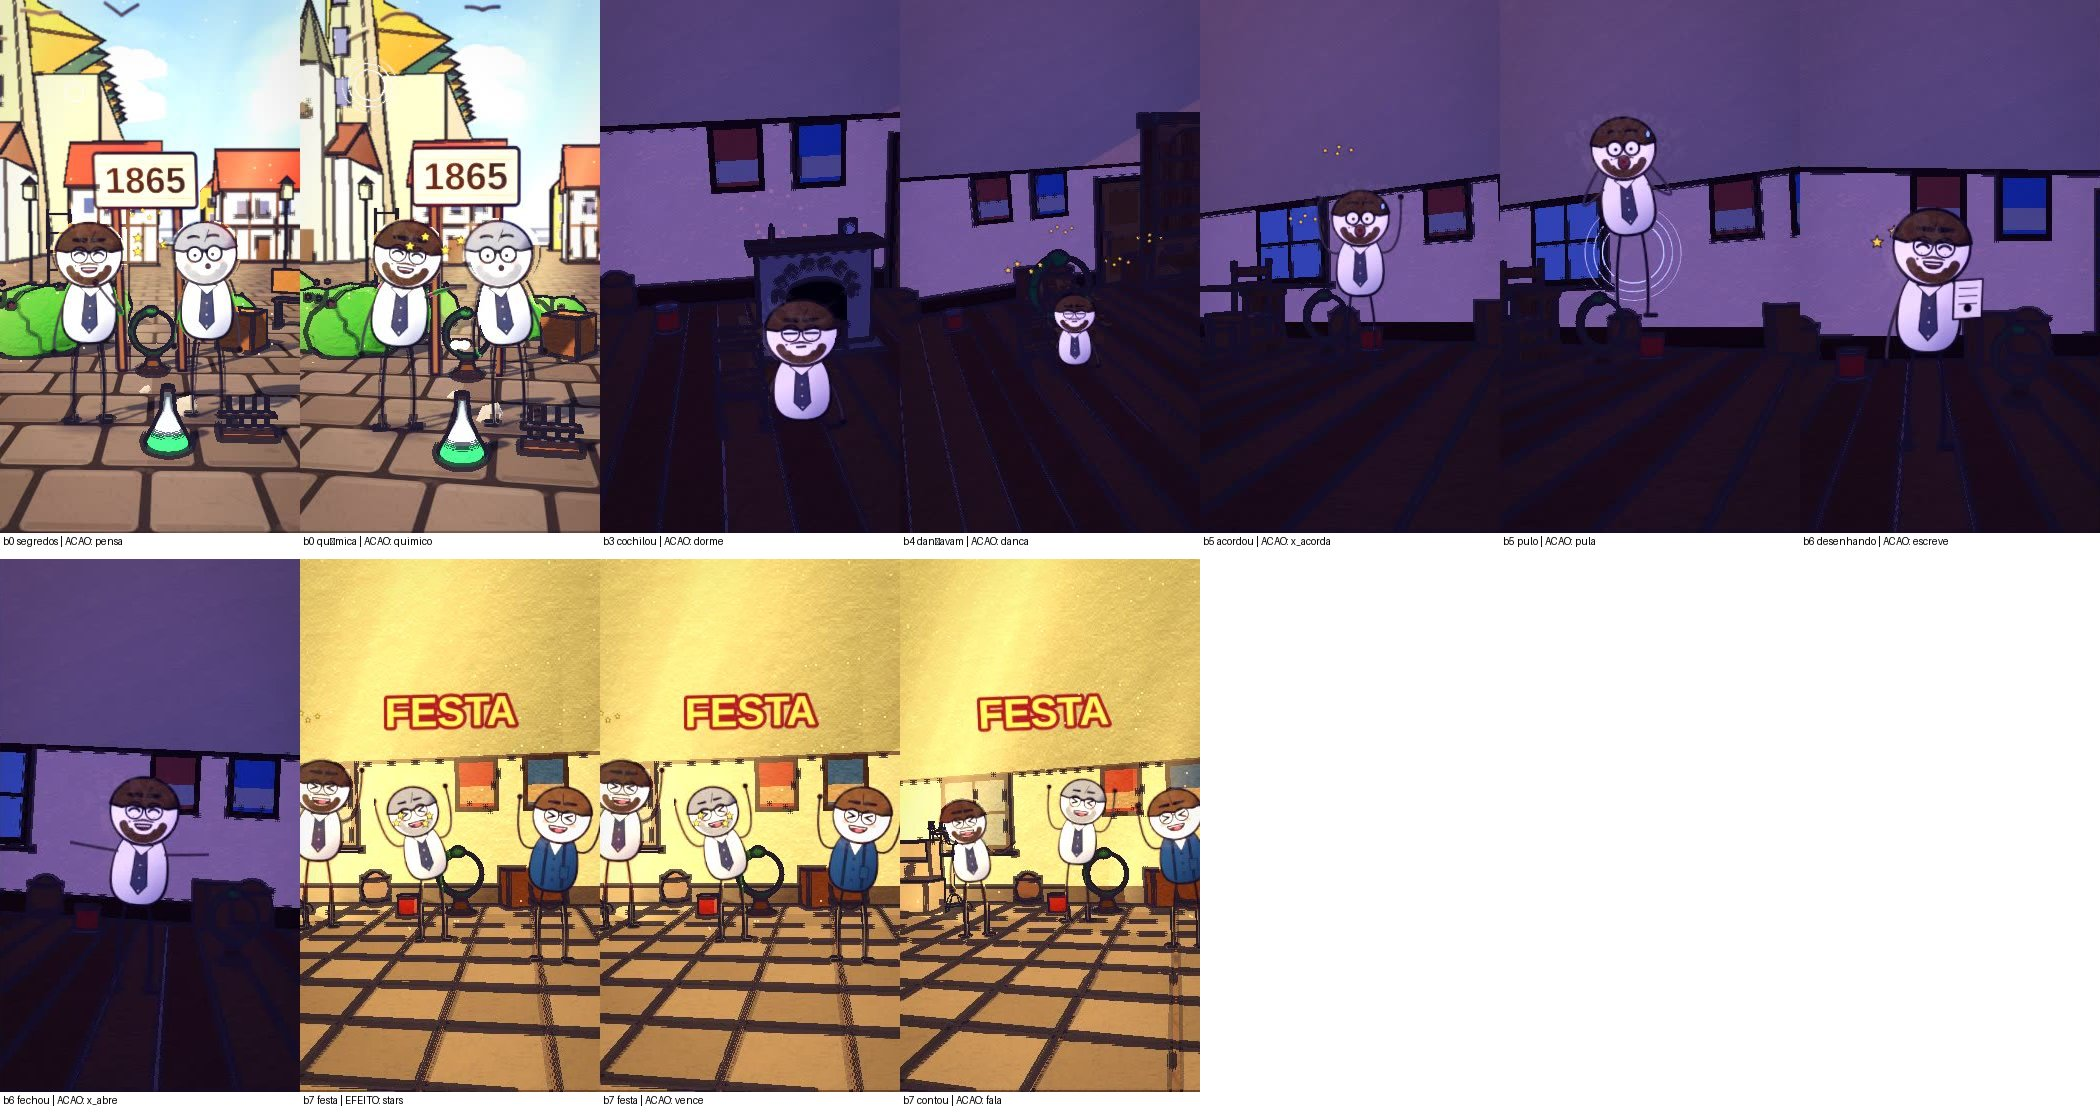
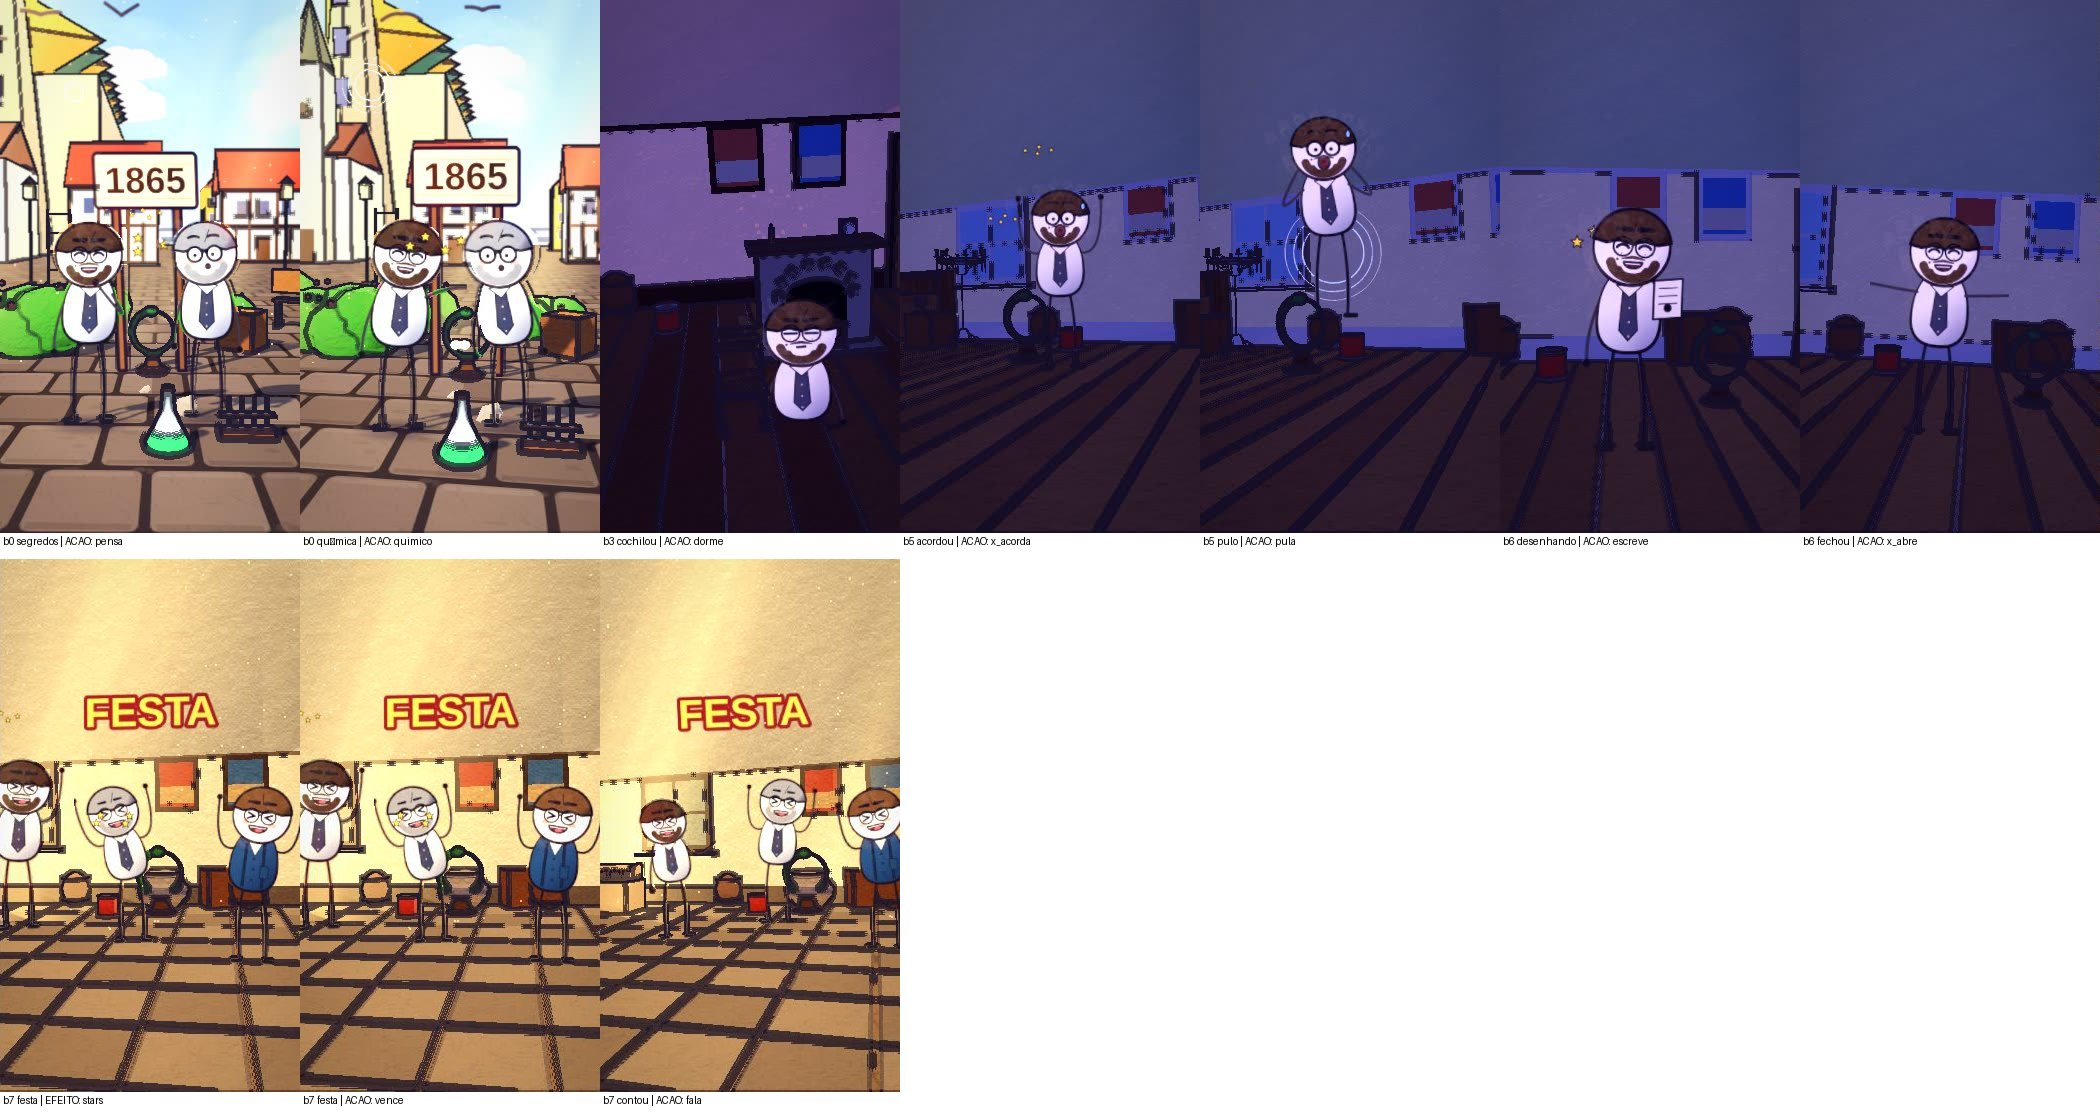
Kekule: storyboard aprovado
Claude-Session: https://claude.ai/code/session_01HE8Dy3UcXXZZMLa7uzjNJD

diff --git a/ferramenta-shorts/web/story.js b/ferramenta-shorts/web/story.js
@@ -49,6 +49,7 @@ const SPEC = {
 };
 
 // FOLHA3 a769cfd9f9d3 30 acoes=29 faltando=0
+SPEC.fit = {"b1":1.254,"b1_1":1.12,"b3":1.12,"b3~1":1.572,"b3~2":1.254,"b8":1.254,"b8_1":1.12,"b9":1.254};
 // ===== STORY RUNTIME (generic): turns a declarative SPEC (stories/<id>.spec.js, concatenated before this file) into the story.js interface the engine expects =====
 import { camFromKeys, clamp, lerp, ramp, q, blinkAt, idle, M } from './motion.js';
 export const FPS = 30, TOTAL = SPEC.total, DECK = 6;

diff --git a/ferramenta-shorts/stories/kekule1865/fit.js b/ferramenta-shorts/stories/kekule1865/fit.js
@@ -1,0 +1,1 @@
+SPEC.fit = {"b1":1.254,"b1_1":1.12,"b3":1.12,"b3~1":1.572,"b3~2":1.254,"b8":1.254,"b8_1":1.12,"b9":1.254};

diff --git a/ferramenta-shorts/stories/kekule1865/revisao_storyboard.md b/ferramenta-shorts/stories/kekule1865/revisao_storyboard.md
@@ -1,12 +1,12 @@
-b0: OK - cena confere com a frase: Um dos maiores segredos da química foi resolvido num cochilo, e com a ajuda
-b1: OK - cena confere com a frase: Era mil oitocentos e sessenta e cinco, na cidade de Gante, na Bélgica.
-b2: OK - cena confere com a frase: O professor August Kekulé tinha um problema: o benzeno, um líquido com seis átomos
-b3: OK - cena confere com a frase: Os químicos desenhavam correntes retas, e nada fechava a conta. Era um quebra-cabeça de
-b4: OK - cena confere com a frase: Numa noite fria, ele virou a cadeira para a lareira, e cochilou.
-b5: OK - cena confere com a frase: No sonho, os átomos dançavam como cobras. Até que uma delas mordeu o próprio
-b6: OK - cena confere com a frase: Kekulé acordou num pulo, como se tivesse levado um raio. O benzeno não era
-b7: OK - cena confere com a frase: Passou o resto da noite desenhando o anel de seis carbonos. E a conta
-b8: OK - cena confere com a frase: Os colegas ficaram de boca aberta. O anel explicava dezenas de substâncias de uma
-b9: OK - cena confere com a frase: Vinte e cinco anos depois, numa festa em Berlim em honra ao anel, ele
-b10: OK - cena confere com a frase: Até hoje há quem duvide da história. Mas o anel do benzeno virou base
-b11: OK - cena confere com a frase: E ele deixou um conselho: aprendam a sonhar. Mas confiram tudo acordados.
+b0: OK - um dos maiores segredos da quimica resolvido num cochilo com a ajuda de uma cobra: Kekule e colega na rua de Gante com o anel da cobra e frascos, placa 1865
+b1: OK - 1865, cidade de Gante na Belgica: mapa da Belgica e a rua com moradores
+b2: OK - o benzeno com seis carbonos que ninguem sabia arrumar: Kekule e colega no gabinete, placa 6 CARBONOS
+b3: OK - numa noite fria virou a cadeira para a lareira e cochilou: Kekule na sala escura com a lareira acesa
+b4: CORRIGIDO - sonho escuro com a cobra pequena num canto -> os atomos dancavam como cobras e uma mordeu o proprio rabo: o anel da cobra girando em destaque com ATOMOS > COBRA > ANEL
+b5: OK - Kekule acordou num pulo, o benzeno era um anel: Kekule espantado na sala com o anel ao lado
+b6: OK - passou a noite desenhando o anel de seis carbonos: Kekule com o papel na sala
+b7: OK - vinte e cinco anos depois numa festa em Berlim contou o sonho: colegas comemorando com o anel, placa FESTA
+b8: OK - ha quem duvide, mas o anel virou base de remedios, tintas e plasticos: multidao na praca
+b9: OK - aprendam a sonhar, mas confiram tudo acordados: Kekule com o anel, placa SONHE
+pesquisa: o quadro de referencias mostra August Kekule de terno e barba em 1865, o desenho do anel hexagonal do benzeno, a cobra Ouroboros mordendo o rabo e a cidade de Gante; comparei roupas, cidade e o simbolo do anel
+defeitos procurados: cenario de Gante do seculo XIX sem predio moderno; epoca 1865 sem objeto fora; tamanho certo do anel e frascos; ninguem cortado; multidao sem clone; legenda livre; acao de cada frase visivel (cochilo, sonho, acordar, desenhar, festa); objeto heroi anel da cobra no comeco, no sonho e no fim

diff --git a/ferramenta-shorts/stories/kekule1865/cronograma.md b/ferramenta-shorts/stories/kekule1865/cronograma.md
@@ -1,6 +1,6 @@
 # CRONOGRAMA - Curiosidade e Ciência EP 14 - O Químico que Sonhou com uma Cobra
 
-Gerado em 24/11 10:10 | 11 cenas | metricas: acoes_encenadas 100%, acoes_chave_com_efeito 100%, explicacoes_cobertas 100%, cenario_e_epoca_ok 100%
+Gerado em 24/11 10:12 | 11 cenas | metricas: acoes_encenadas 100%, acoes_chave_com_efeito 100%, explicacoes_cobertas 100%, cenario_e_epoca_ok 100%
 
 ## 1. Plano de cenas (o que cada frase vai mostrar)
 
@@ -27,15 +27,15 @@ N | Etapa | O que confere | Estado | Proximo passo
 3 | Modelagem do que falta | todo objeto das cenas existe na biblioteca 3D, da epoca e no tamanho real | FEITO | 
 4 | Travas do roteiro | folha 2 com 0 risco e folha 3 com 0 acao faltando (riscos agora: 0) | FEITO | 
 5 | Voz | narracao neural gerada e tempos por palavra | FEITO | 
-6 | Estilo e enquadramento | autoajuste de luz/cor e ajuste de camera de cada tomada | PENDENTE | 
-7 | Gates | camera OK, todas as tomadas OK, estilo OK | BLOQUEADO (etapa anterior pendente) | 
-8 | Storyboard e grade de acoes | video inteiro em quadros + 1 quadro no instante de cada acao | REFAZER (a etapa anterior mudou) | 
-9 | Revisao escrita e aprovacao | uma linha por frase conferindo com a folha 3 e com o quadro da pesquisa | BLOQUEADO (etapa anterior pendente) | ./aprovar_storyboard.sh kekule1865
+6 | Estilo e enquadramento | autoajuste de luz/cor e ajuste de camera de cada tomada | FEITO | 
+7 | Gates | camera OK, todas as tomadas OK, estilo OK | FEITO | 
+8 | Storyboard e grade de acoes | video inteiro em quadros + 1 quadro no instante de cada acao | FEITO | 
+9 | Revisao escrita e aprovacao | uma linha por frase conferindo com a folha 3 e com o quadro da pesquisa | PENDENTE | ./aprovar_storyboard.sh kekule1865
 10 | Render | todos os quadros renderizados nesta versao das folhas | BLOQUEADO (etapa anterior pendente) | 
 11 | Montagem e som | trechos + voz + musica + efeitos; volume normalizado | BLOQUEADO (etapa anterior pendente) | 
 12 | Conferencia | conferir.sh sem falha e folha de contato olhada | BLOQUEADO (etapa anterior pendente) | ./conferir.sh kekule1865
 13 | Auditoria das acoes | 1 quadro do mp4 em cada palavra de acao | BLOQUEADO (etapa anterior pendente) | bash auditar_acoes.sh local kekule1865 <mp4>
 14 | Entrega | mp4 original 1080x1920 enviado; commit e push | BLOQUEADO (etapa anterior pendente) | 
 
-**Etapa atual:** 6. Estilo e enquadramento
+**Etapa atual:** 9. Revisao escrita e aprovacao
 

diff --git a/ferramenta-shorts/stories/postit1968/cronograma.md b/ferramenta-shorts/stories/postit1968/cronograma.md
@@ -1,6 +1,6 @@
 # CRONOGRAMA - Curiosidade e Ciência EP 15 - A Cola que Não Colava
 
-Gerado em 24/11 04:14 | 13 cenas | metricas: acoes_encenadas 100%, acoes_chave_com_efeito 100%, explicacoes_cobertas 100%, cenario_e_epoca_ok 100%
+Gerado em 24/11 10:13 | 13 cenas | metricas: acoes_encenadas 100%, acoes_chave_com_efeito 100%, explicacoes_cobertas 100%, cenario_e_epoca_ok 100%
 
 ## 1. Plano de cenas (o que cada frase vai mostrar)
 
